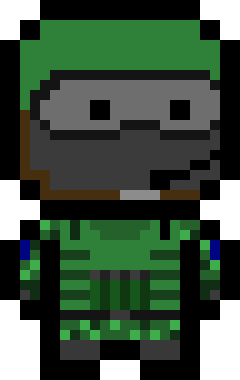
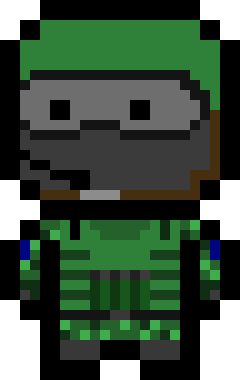
almost done :)

diff --git a/main.py b/main.py
@@ -39,9 +39,6 @@ exit_button_img = pygame.transform.scale(exit_button_img,(200, 100))
 gameove_img = pygame.image.load('gameover.jpg').convert_alpha()
 gameove_img = pygame.transform.scale(gameove_img,(200, 100))
 
-home_img = pygame.image.load('home.png').convert_alpha()
-home_img = pygame.transform.scale(home_img,(100, 100))
-
 title_img = pygame.image.load('TITLE.png').convert_alpha()
 title_img = pygame.transform.scale(title_img,(300, 100))
 
@@ -53,6 +50,18 @@ heal_box_img = pygame.transform.scale(heal_box_img,(50, 50))
 
 ammo_box_img = pygame.image.load('ammo_box.png')
 ammo_box_img = pygame.transform.scale(ammo_box_img,(50, 50))
+
+platform_img = pygame.image.load('platform.png')
+platform_img = pygame.transform.scale(platform_img,(300, 100))
+
+option_easy_img = pygame.image.load('easy.png').convert_alpha()
+option_easy_img = pygame.transform.scale(option_easy_img,(200, 200))
+
+option_normal_img = pygame.image.load('normal.png').convert_alpha()
+option_normal_img = pygame.transform.scale(option_normal_img,(200, 200))
+
+option_hard_img = pygame.image.load('hard.png').convert_alpha()
+option_hard_img = pygame.transform.scale(option_hard_img,(200, 200))
 
 item_boxes = {
     'Health'    : heal_box_img,
@@ -112,11 +121,11 @@ class player(pygame.sprite.Sprite):
         dy = 0
         if move_left:
             dx = -self.speed
-            self.flip = True
+            self.flip = False
             self.direction = -1
         if move_right:
             dx = self.speed
-            self.flip = False
+            self.flip = True
             self.direction = 1
         #jump
         if self.jump == True:
@@ -130,7 +139,20 @@ class player(pygame.sprite.Sprite):
 
         if self.rect.bottom + dy > 400:
             dy = 400 - self.rect.bottom
+
+        if self.rect.left + dx < 0:
+            dx = -self.rect.left
+        if self.rect.right + dx > W:
+            dx = W - self.rect.right
+
+        for x in platform_group:
+            if x.rect.colliderect(self.rect.x, self.rect.y + dy, 48, 76):
+                if self.rect.bottom < x.rect.centery:
+                    if self.vel_y > 0:
+                        self.rect.bottom = x.rect.top
+                        dy = 0
         
+
         self.rect.x += dx
         self.rect.y += dy
 
@@ -224,6 +246,7 @@ class ItemBox(pygame.sprite.Sprite):
         self.image = item_boxes[self.item_type]
         self.rect = self.image.get_rect()
         self.rect.midtop = (x + TILE_SIZE // 2, y + (TILE_SIZE - self.image.get_height()))
+
     def update(self):
         if pygame.sprite.collide_rect(self, pl):
             if self.item_type == 'Health':
@@ -248,12 +271,13 @@ class HealthBar():
         pygame.draw.rect(screen, RED, (self.x, self.y, 150, 20))
         pygame.draw.rect(screen, GREEN, (self.x, self.y, 150 * ratio, 20))
 
-class Playtform(pygame.sprite.Sprite):
-    def __init__(self, x, y, w, h):
+class Platform(pygame.sprite.Sprite):
+    def __init__(self, x, y, width):
         pygame.sprite.Sprite.__init__(self)
-        self.rect = pygame.Rect(x, y, w, h)
-        self.x = x
-        self.y = y
+        self.image = pygame.transform.scale(platform_img, (width, 10))
+        self.rect = self.image.get_rect()
+        self.rect.x = x
+        self.rect.y = y
 
 class Button():
     def __init__(self, x, y, image, scale):
@@ -280,12 +304,15 @@ class Button():
 def draw_line():
     pygame.draw.line(screen, RED, (0,400), (W, 400))
 
-start_button = Button(W // 2 - 100, H // 2 - 50  , start_button_img, 1)
+start_button = Button(W // 2 - 100, H // 2  , start_button_img, 1)
 exit_button = Button(W // 2 - 100, H // 2 - 50 + 150 , exit_button_img, 1)
 title = Button(W // 2 - 250, H // 2 - 50 - 150 , title_img, 2)
 
 title_end= Button(W // 2 - 200, H // 2 - 50 - 150 , gameove_img, 2)
-home_btn =Button(W // 2 - 50, H // 2 - 50  , home_img, 1)
+
+option_easy = Button(W // 2 - 400, H // 2 - 50 - 150 , option_easy_img, 1)
+option_medium = Button(W // 2 - 100, H // 2 - 50 - 150 , option_normal_img, 1)
+option_hard = Button(W // 2 + 200, H // 2 - 50 - 150 , option_hard_img, 1)
 
 pl = player('player', 500, 100, 0.2, 3, 20)
 health_bar = HealthBar(15, 15, pl.healt, pl.maxhealt)
@@ -294,12 +321,13 @@ enemy_group = pygame.sprite.Group()
 
 bullet_group = pygame.sprite.Group()
 item_box_group = pygame.sprite.Group()
+platform_group = pygame.sprite.Group()
 
-item_box = ItemBox('Health', 100, 380)
-item_box_group.add(item_box)
+platform1 = Platform(100, 200, 300)
+platform_group.add(platform1)
 
-item_box = ItemBox('Ammo', 900, 380)
-item_box_group.add(item_box)
+platform2 = Platform(600, 200, 300)
+platform_group.add(platform2)
 
 enemy1 = player('Zombie1', 800, 400, 0.05, 2, 8)
 enemy2 = player('Zombie2', 200, 400, 0.1, 2, 8)
@@ -313,24 +341,49 @@ enemy_group.add(enemy3)
 enemy_group.add(enemy4)
 
 def spawn_enemy():
-    enemy1 = player('Zombie1', 800, 400, 0.05, 2, 8)
-    enemy2 = player('Zombie2', 200, 400, 0.1, 2, 8)
-    enemy3 = player('Zombie3', 900, 400, 0.05, 2, 8)
-    enemy4 = player('Zombie4', 100, 400, 0.05, 2, 8)
+    if select_dificulty_easy:
+        enemy1 = player('Zombie1', 800, 400, 0.05, 2, 8)
+        enemy2 = player('Zombie2', 200, 400, 0.1, 2, 8)
 
-    enemy_group.add(enemy1)
-    enemy_group.add(enemy2)
-    enemy_group.add(enemy3)
-    enemy_group.add(enemy4)
-    run_once = 0
-    return run_once
+        enemy_group.add(enemy1)
+        enemy_group.add(enemy2)
+        run_once = 0
+        return run_once
+    if select_dificulty_medium:
+        enemy1 = player('Zombie1', 800, 400, 0.05, 2, 8)
+        enemy2 = player('Zombie2', 200, 400, 0.1, 2, 8)
+        enemy3 = player('Zombie3', 900, 400, 0.05, 2, 8)
+        enemy4 = player('Zombie4', 100, 400, 0.05, 2, 8)
+
+        enemy_group.add(enemy1)
+        enemy_group.add(enemy2)
+        enemy_group.add(enemy3)
+        enemy_group.add(enemy4)
+        run_once = 0
+        return run_once
+    if select_dificulty_hard:
+        enemy1 = player('Zombie1', 800, 400, 0.05, 3, 8)
+        enemy2 = player('Zombie2', 200, 400, 0.1, 3, 8)
+        enemy3 = player('Zombie3', 900, 400, 0.05, 3, 8)
+        enemy4 = player('Zombie4', 100, 400, 0.05, 3, 8)
+        enemy5 = player('Zombie1', 900, 400, 0.05, 3, 8)
+        enemy6 = player('Zombie3', 100, 400, 0.05, 3, 8)
+
+        enemy_group.add(enemy1)
+        enemy_group.add(enemy2)
+        enemy_group.add(enemy3)
+        enemy_group.add(enemy4)
+        enemy_group.add(enemy5)
+        enemy_group.add(enemy6)
+        run_once = 0
+        return run_once
 
 def spawn_heal():
-    item_box = ItemBox('Health', 100, 380)
+    item_box = ItemBox('Health', 220, 180)
     item_box_group.add(item_box)
 
 def spawn_ammo():
-    item_box = ItemBox('Ammo', 900, 380)
+    item_box = ItemBox('Ammo', 730, 180)
     item_box_group.add(item_box)
 
 enemy_count = 0
@@ -345,25 +398,40 @@ run_once2 = 0
 run_once3 = 0
 end_game = False
 
+game_idle = False
+
+select_dificulty_easy = False
+select_dificulty_medium = False
+select_dificulty_hard = False
+
 while run:
     clock.tick(FPS)
 
     MENU_MOUSE_POS = pygame.mouse.get_pos()
 
-    if start_game == False:
+    if game_idle == False:
         screen.fill(ORANGE)
         title.draw()
-
         if start_button.draw():
-            start_game = True
-            pl.alive = True
-            pl.healt = 100
-            pl.ammo = 20
-
+            game_idle = True
         if exit_button.draw():
             run = False
-    elif start_game == True:
-        draw_BG2()
+    if game_idle == True:
+        screen.fill(WHITE)
+        draw_text(f'MEDIUM', font, BLACK, W // 2 - 50, H // 2 + 100)
+        draw_text(f'EASY', font, BLACK, W // 2 - 325, H // 2 + 100)
+        draw_text(f'HARD', font, BLACK, W // 2 + 275, H // 2 + 100)
+        if option_easy.draw(): 
+            start_game = True
+            select_dificulty_easy = True
+        if option_medium.draw():
+            start_game = True
+            select_dificulty_medium = True
+        if option_hard.draw():
+            start_game = True
+            select_dificulty_hard = True
+    if start_game == True:
+        draw_BG()
             #health
         health_bar.draw(pl.healt)
             #ammo
@@ -382,6 +450,7 @@ while run:
         bullet_group.draw(screen)
 
         draw_line()
+        platform_group.draw(screen)
         pl.draw()
         pl.update()
         pl.move(move_left, move_right)
@@ -402,9 +471,14 @@ while run:
         if enemy_count == 0:
             if run_once == 0:
                 spawn_enemy()
-                enemy_count = 4
+                if select_dificulty_easy:
+                    enemy_count = 2
+                if select_dificulty_medium:
+                    enemy_count = 4
+                if select_dificulty_hard:
+                    enemy_count = 6
         
-        x = randint(1, 500)
+        x = randint(1, 300)
         a = 4
         if pl.ammo < 5 and a == x:
             run_once3 = 0
@@ -427,8 +501,7 @@ while run:
         if pl.alive == False:
             screen.fill(BLACK)
             title_end.draw()
-            if home_btn.draw():
-                start_game = False
+            draw_text(f'SCORE: {pl.score}', font, WHITE, W // 2 - 50, H // 2)
             if exit_button.draw():
                 run = False
 
